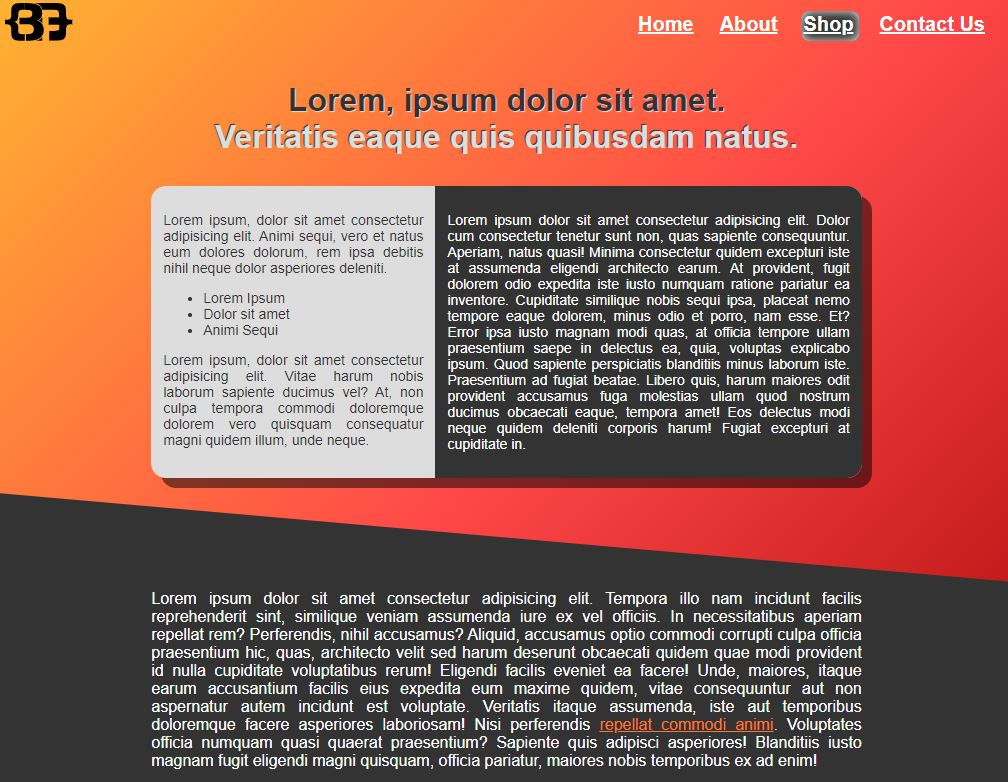
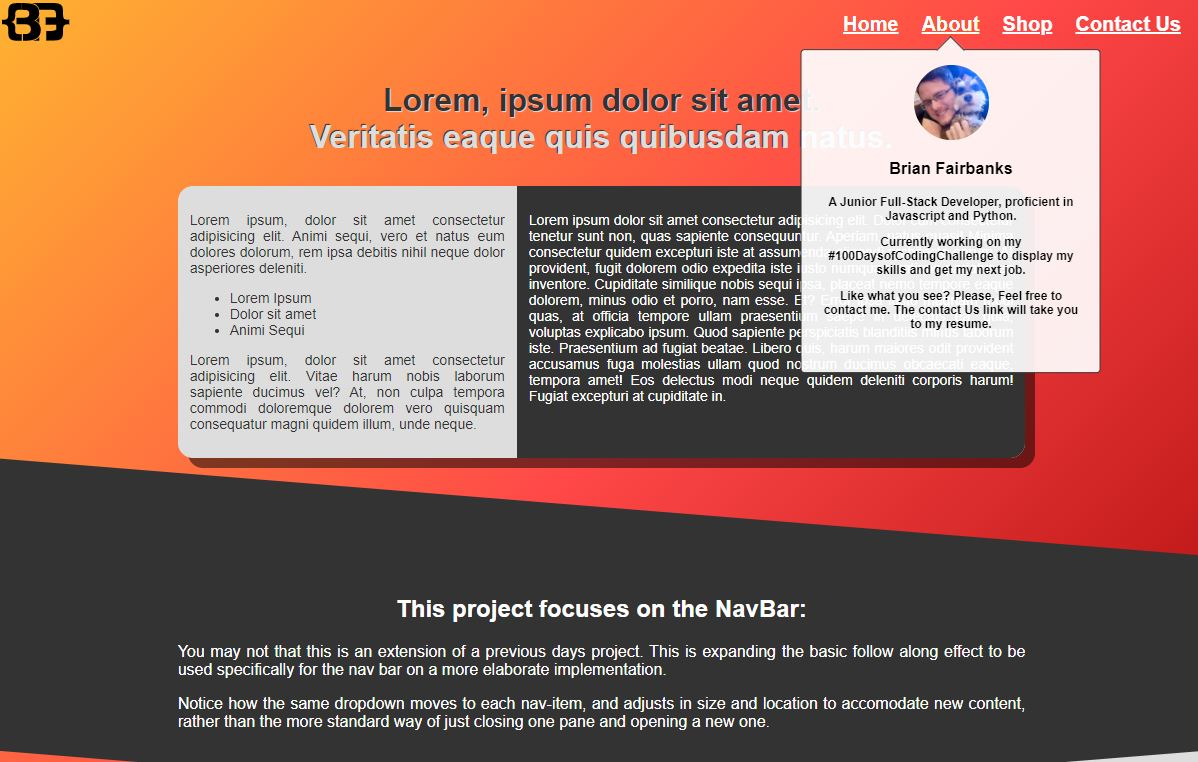
added project 33 to index

diff --git a/33-followPanel/style.css b/33-followPanel/style.css
@@ -78,9 +78,13 @@ body {
 .dropdown {
   opacity:0;
   position:absolute;
-  padding:20px;
-  top:-60px;
+  padding:16px;
+  padding-top:30px;
+  top:-75px;
   width:100px;
+
+  font-size:14px;
+
   border-radius:2px;
   transition: all 0.5s;
   transform: translateY(100px);
@@ -101,10 +105,13 @@ body {
   height:100px;
   position:absolute;
   top:0px;
+  left:0px;
+  margin-top:14px;
   background:#fff;
   border-radius:4px;
   transition:all 0.3s, opacity 0.15s, translate 0.2s;
   transform-origin:50% 0%;
+  border:1px solid #333;
 
   display:flex;
   justify-content: center;
@@ -113,7 +120,7 @@ body {
 }
 
 .dropdownBackground.open{
-  opacity:1;
+  opacity:.92;
 }
 
 .arrow{

diff --git a/33-followPanel/index.html b/33-followPanel/index.html
@@ -104,7 +104,7 @@
 
     <section class="slantMask">
       <div class="maskContent">
-        <h1 class="center">This project focuses on he nav bar:</h1>
+        <h1 class="center">This project focuses on the NavBar:</h1>
         <p>
           You may not that this is an extension of a previous days project.  This is expanding the basic follow along effect to be used specifically for the nav bar on a more elaborate implementation.
         </p>

diff --git a/projects.js b/projects.js
@@ -195,5 +195,11 @@ const projects = [
     src: "./32-puzzle/",
     number:  32,
     name: "Clip-path Puzzle (click to win)"
+  },
+
+  {
+    src: "./33-followPanel/",
+    number:  33,
+    name: "Fallow Along Nav Panel"
   }
 ]
